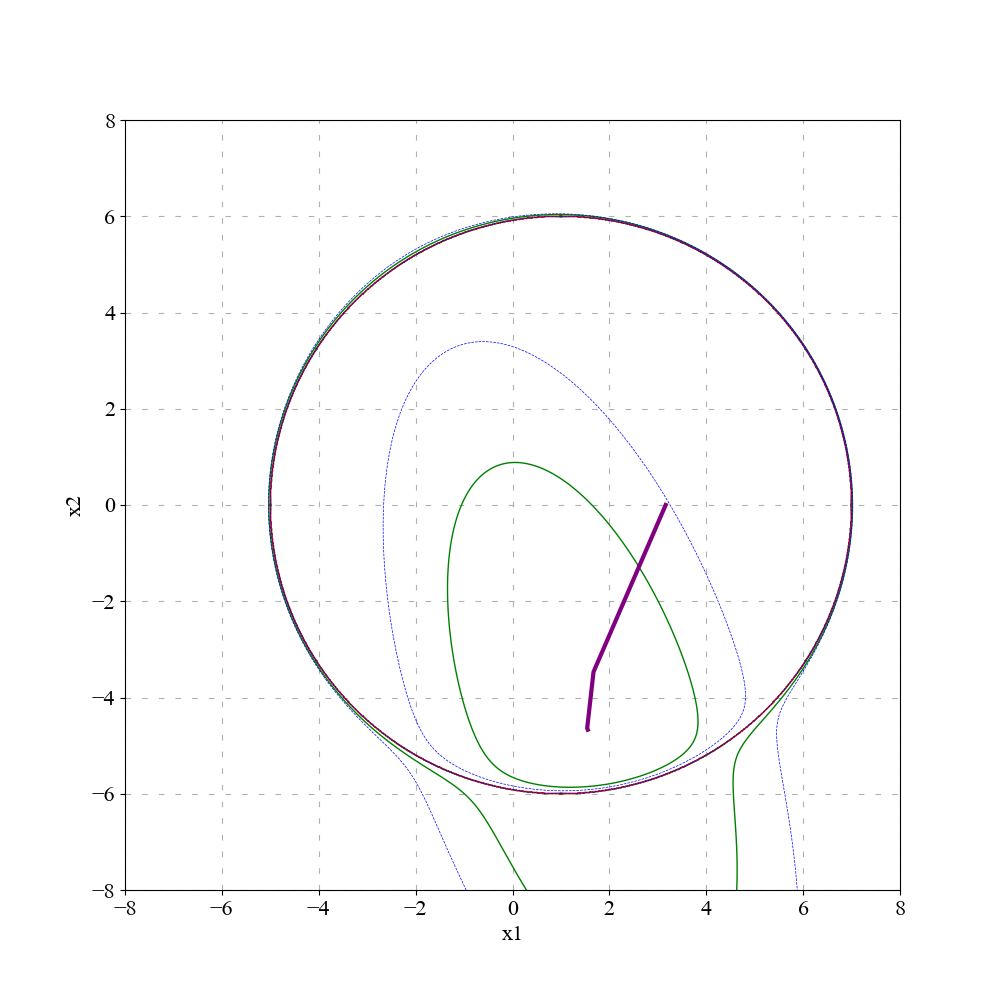
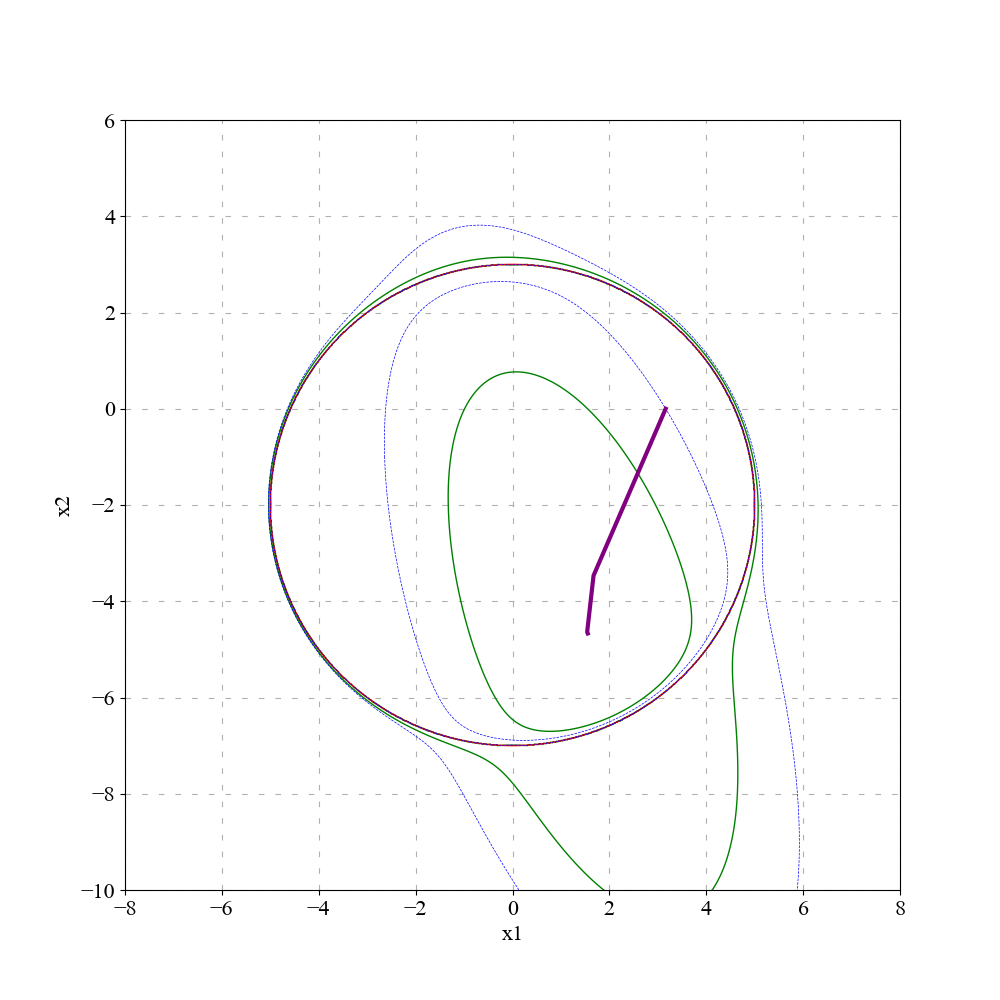
rrr

diff --git a/sch/sch4.py b/sch/sch4.py
@@ -41,11 +41,11 @@ def f_k(x_,C_):
 #константы и функции для построения графика 
 left = -8
 rigth = 8
-bottom = -8
-top = 8
+bottom = -10
+top = 6
 x1, x2 = np.mgrid[left-0.5:rigth+0.5:0.01,bottom-0.5:top+0.5:0.01] 
 zg = 11*x1**2+3*x2**2+6*x1*x2-2*np.sqrt(10)*(x1-3*x2)-22 
-zg_g = (x1-1)**2+(x2+0)**2-6**2
+zg_g = (x1-0)**2+(x2+2)**2-5**2
 zg_b = zg-(c0/(zg_g))
 def graph(label,x,fx): #функция построения графика 
     fig, ax = plt.subplots() 
